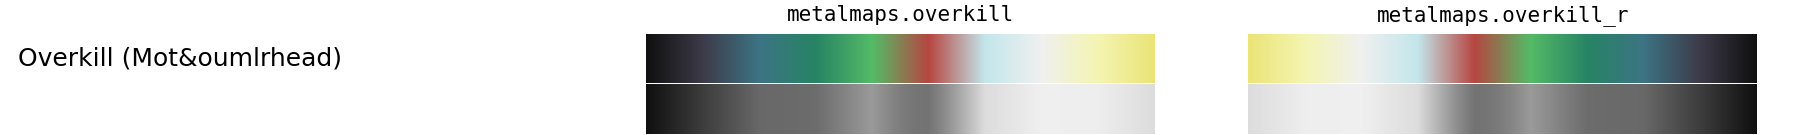
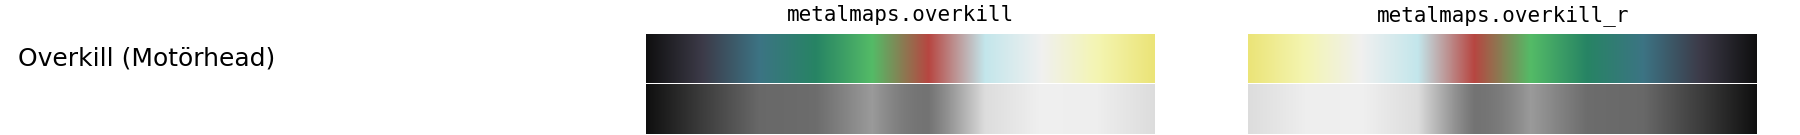
moved colormap plot into generate_all_plots. Now unescaping html chars

Changed region(s): [[0.0933, 0.3556, 0.1867, 0.5037]]

diff --git a/metalmaps/generate_plots.py b/metalmaps/generate_plots.py
@@ -10,6 +10,7 @@ import numpy as np
 import os
 from mapcollection import mapCollection, plotAlbum
 import metalmaps
+from html import unescape
 
 outputdir = "images"
 
@@ -63,6 +64,73 @@ def savefig(cmap, plot, ax):
     plt.savefig(fullfilename, dpi=300)
     print("Saved", fullfilename)
     plt.close()
+
+def make_colormap_plot(mapdata):
+    """
+    Make a plot of colormaps as colorbars with lightness underneath.
+    """
+
+    im = np.outer(np.ones(50), np.arange(512))
+
+    fig = plt.figure(figsize=(12, 0.9), dpi=150)
+
+    name_ax = fig.add_subplot(2, 3, 1)
+    color_ax = fig.add_subplot(2, 3, 2)
+    color_ax_r = fig.add_subplot(2, 3, 3)
+    empty_ax = fig.add_subplot(2, 3, 4)
+    gray_ax = fig.add_subplot(2, 3, 5)
+    gray_ax_r = fig.add_subplot(2, 3, 6)
+
+    fig.subplots_adjust(left=0.01, right=0.99, bottom=0.01, top=0.75, hspace=0.01, wspace=0.08)
+
+    for ax in fig.axes:
+        ax.axis("off")
+
+    cmap_name = mapdata["name"]
+    cmap = "metalmaps."+cmap_name
+
+    title_font = {'fontname':'monospace', 'fontsize':10}
+    artist_font = {'fontname':'DejaVu Sans', 'fontsize':12}
+
+    color_ax.imshow(im, cmap=cmap)
+    color_ax.set_title(cmap, **title_font)
+
+    color_ax_r.imshow(im, cmap=cmap+"_r")
+    color_ax_r.set_title(cmap+"_r", **title_font)
+
+    gray_ax.imshow(im, cmap=grayify_cmap(cmap))
+    gray_ax_r.imshow(im, cmap=grayify_cmap(cmap+"_r"))
+
+    artist = unescape(mapdata["artist"]) # decode HTML escape chars
+    text = mapdata["pretty_name"] + " (" + artist + ")"
+    name_ax.text(0., 0., text, ha="left", va="center", **artist_font)
+    name_ax.set_xlim(0, 1)
+    name_ax.set_ylim(-1, 1)
+
+    # We use a different save here.
+    figname = "colormap-" + cmap_name + ".png"
+    fullfilename = os.path.join(outputdir, figname)
+    plt.savefig(fullfilename, dpi=150)
+    print("Saved", fullfilename)
+    plt.close()
+
+
+def grayify_cmap(cmap):
+    """Return a grayscale version of the colormap"""
+    cmap = mpl.colormaps.get_cmap(cmap)
+
+    colors = cmap(np.arange(cmap.N))
+
+    # convert RGBA to perceived greyscale luminance
+    # cf. http://alienryderflex.com/hsp.html
+    RGB_weight = [0.299, 0.587, 0.114]
+    luminance = np.sqrt(np.dot(colors[:, :3] ** 2, RGB_weight))
+    colors[:, :3] = luminance[:, np.newaxis]
+
+    return matplotlib.colors.LinearSegmentedColormap.from_list(
+        cmap.name + "_grayscale", colors, cmap.N
+    )
+
 
 
 def make_EAGLE_plot(cmap):
@@ -218,12 +286,12 @@ def make_lineplot(cmap) :
 
 
 if __name__ == "__main__":
-    #  cmaps = ["metalmaps." + c["name"] for c in [plotAlbum]]
-    cmaps = ["metalmaps." + c["name"] for c in mapCollection]
-    for cmap in cmaps:
-        for suffix in ["", "_r"]:
-            c = cmap + suffix
-            make_KH_plot(c)
-            make_EAGLE_plot(c)
-            make_NGC_plot(c)
-            make_lineplot(c)
+    for mapdata in mapCollection:
+        cmap = "metalmaps." + mapdata["name"]
+        #  for suffix in ["", "_r"]:
+        #      c = cmap + suffix
+        #      make_KH_plot(c)
+        #      make_EAGLE_plot(c)
+        #      make_NGC_plot(c)
+        #      make_lineplot(c)
+        make_colormap_plot(mapdata)
